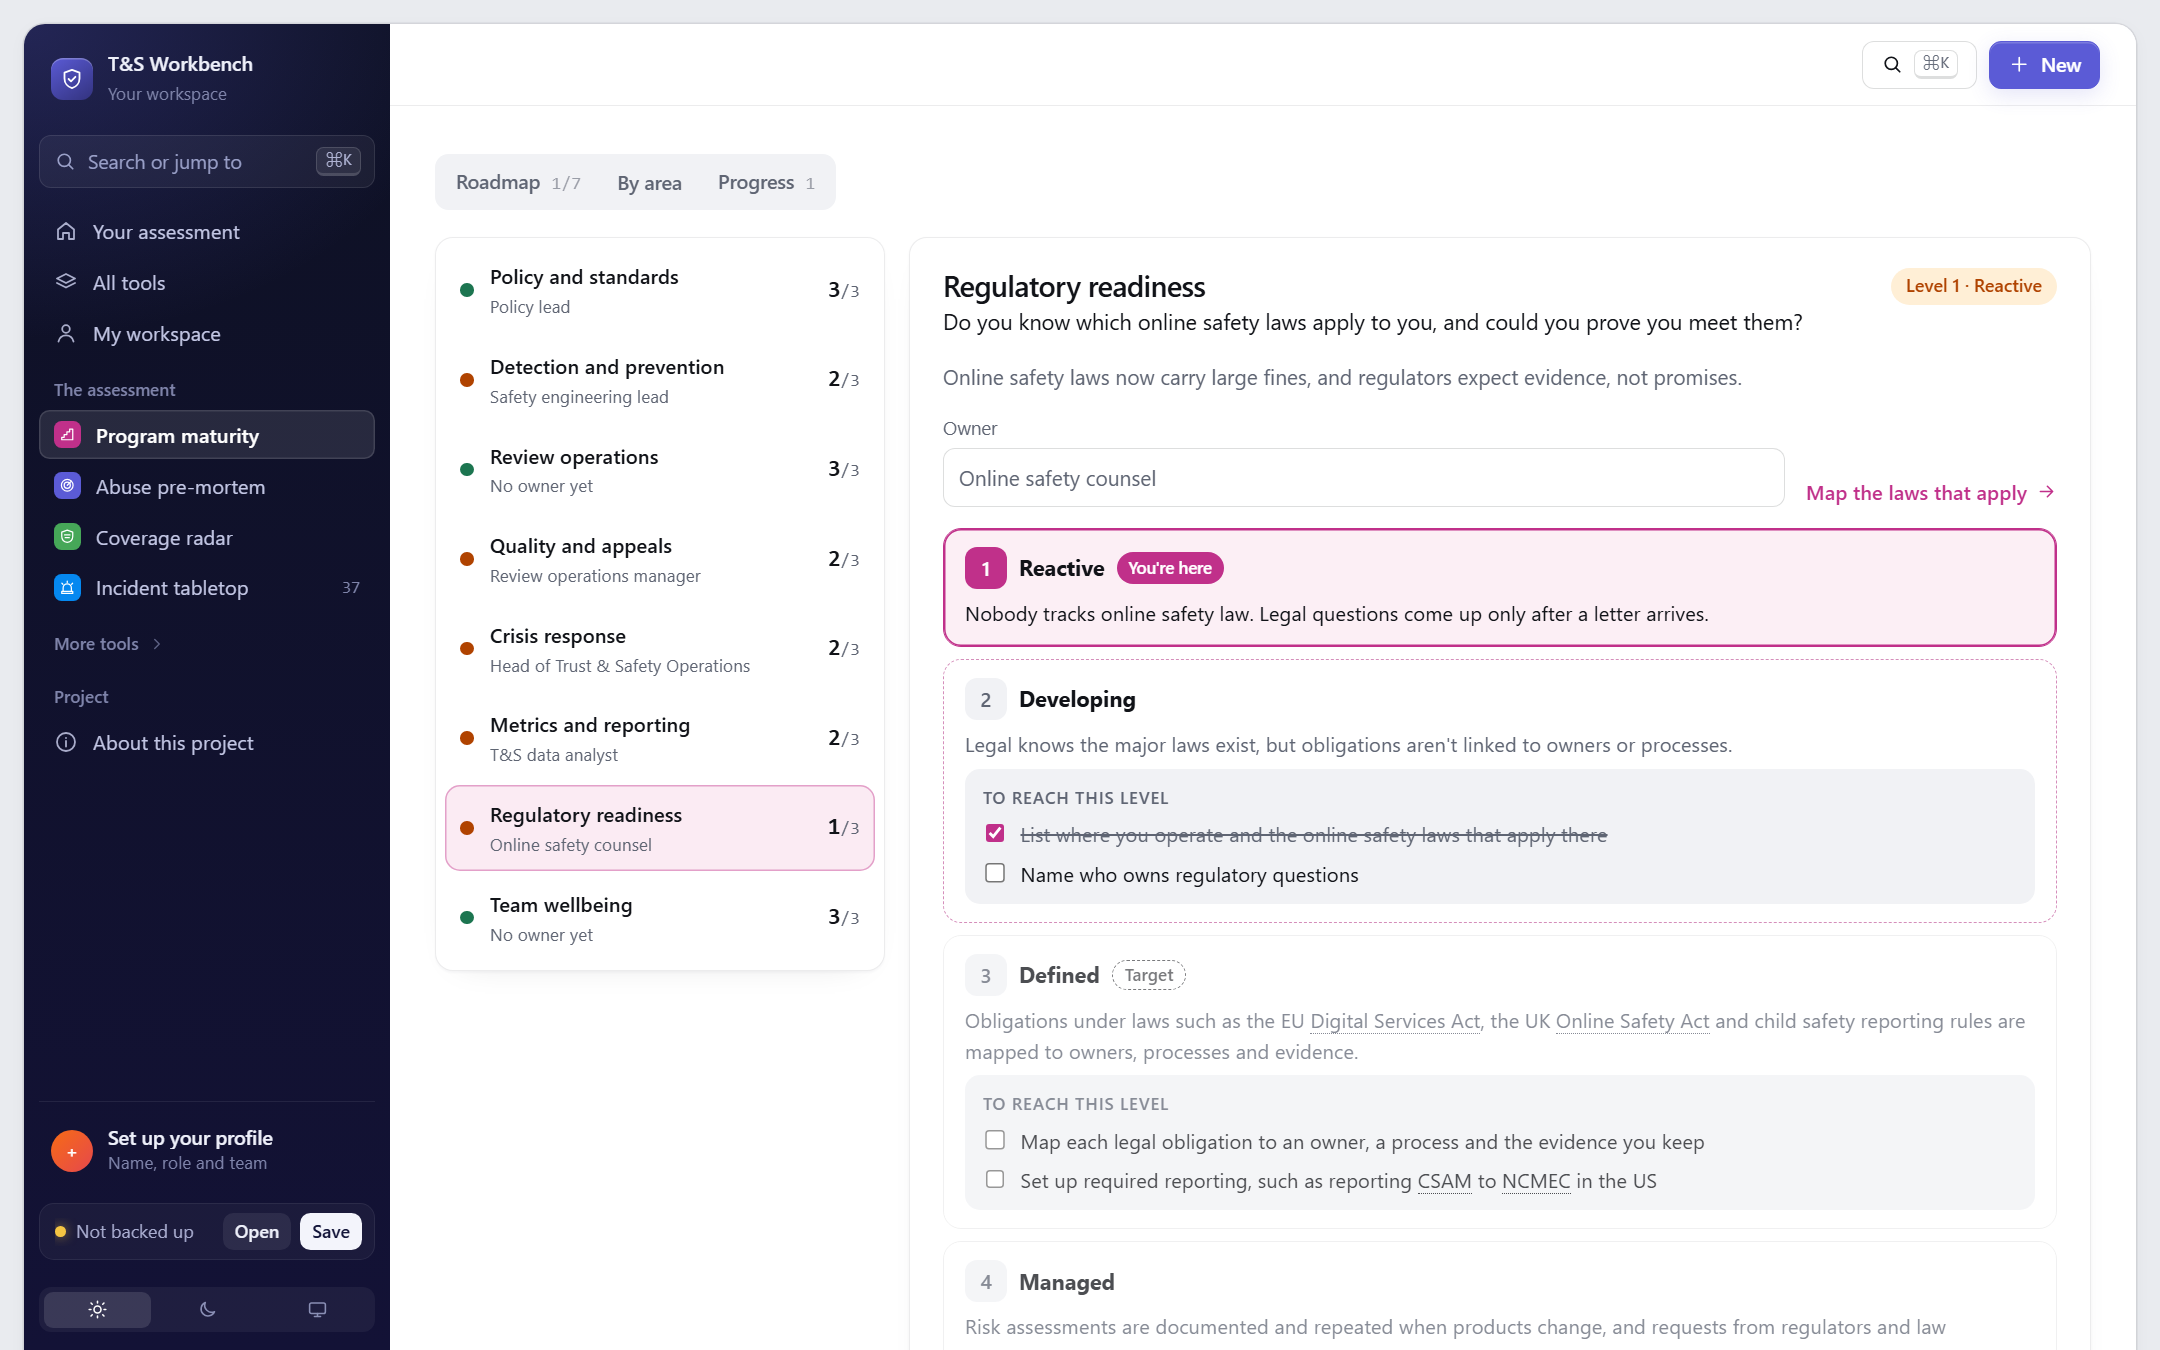
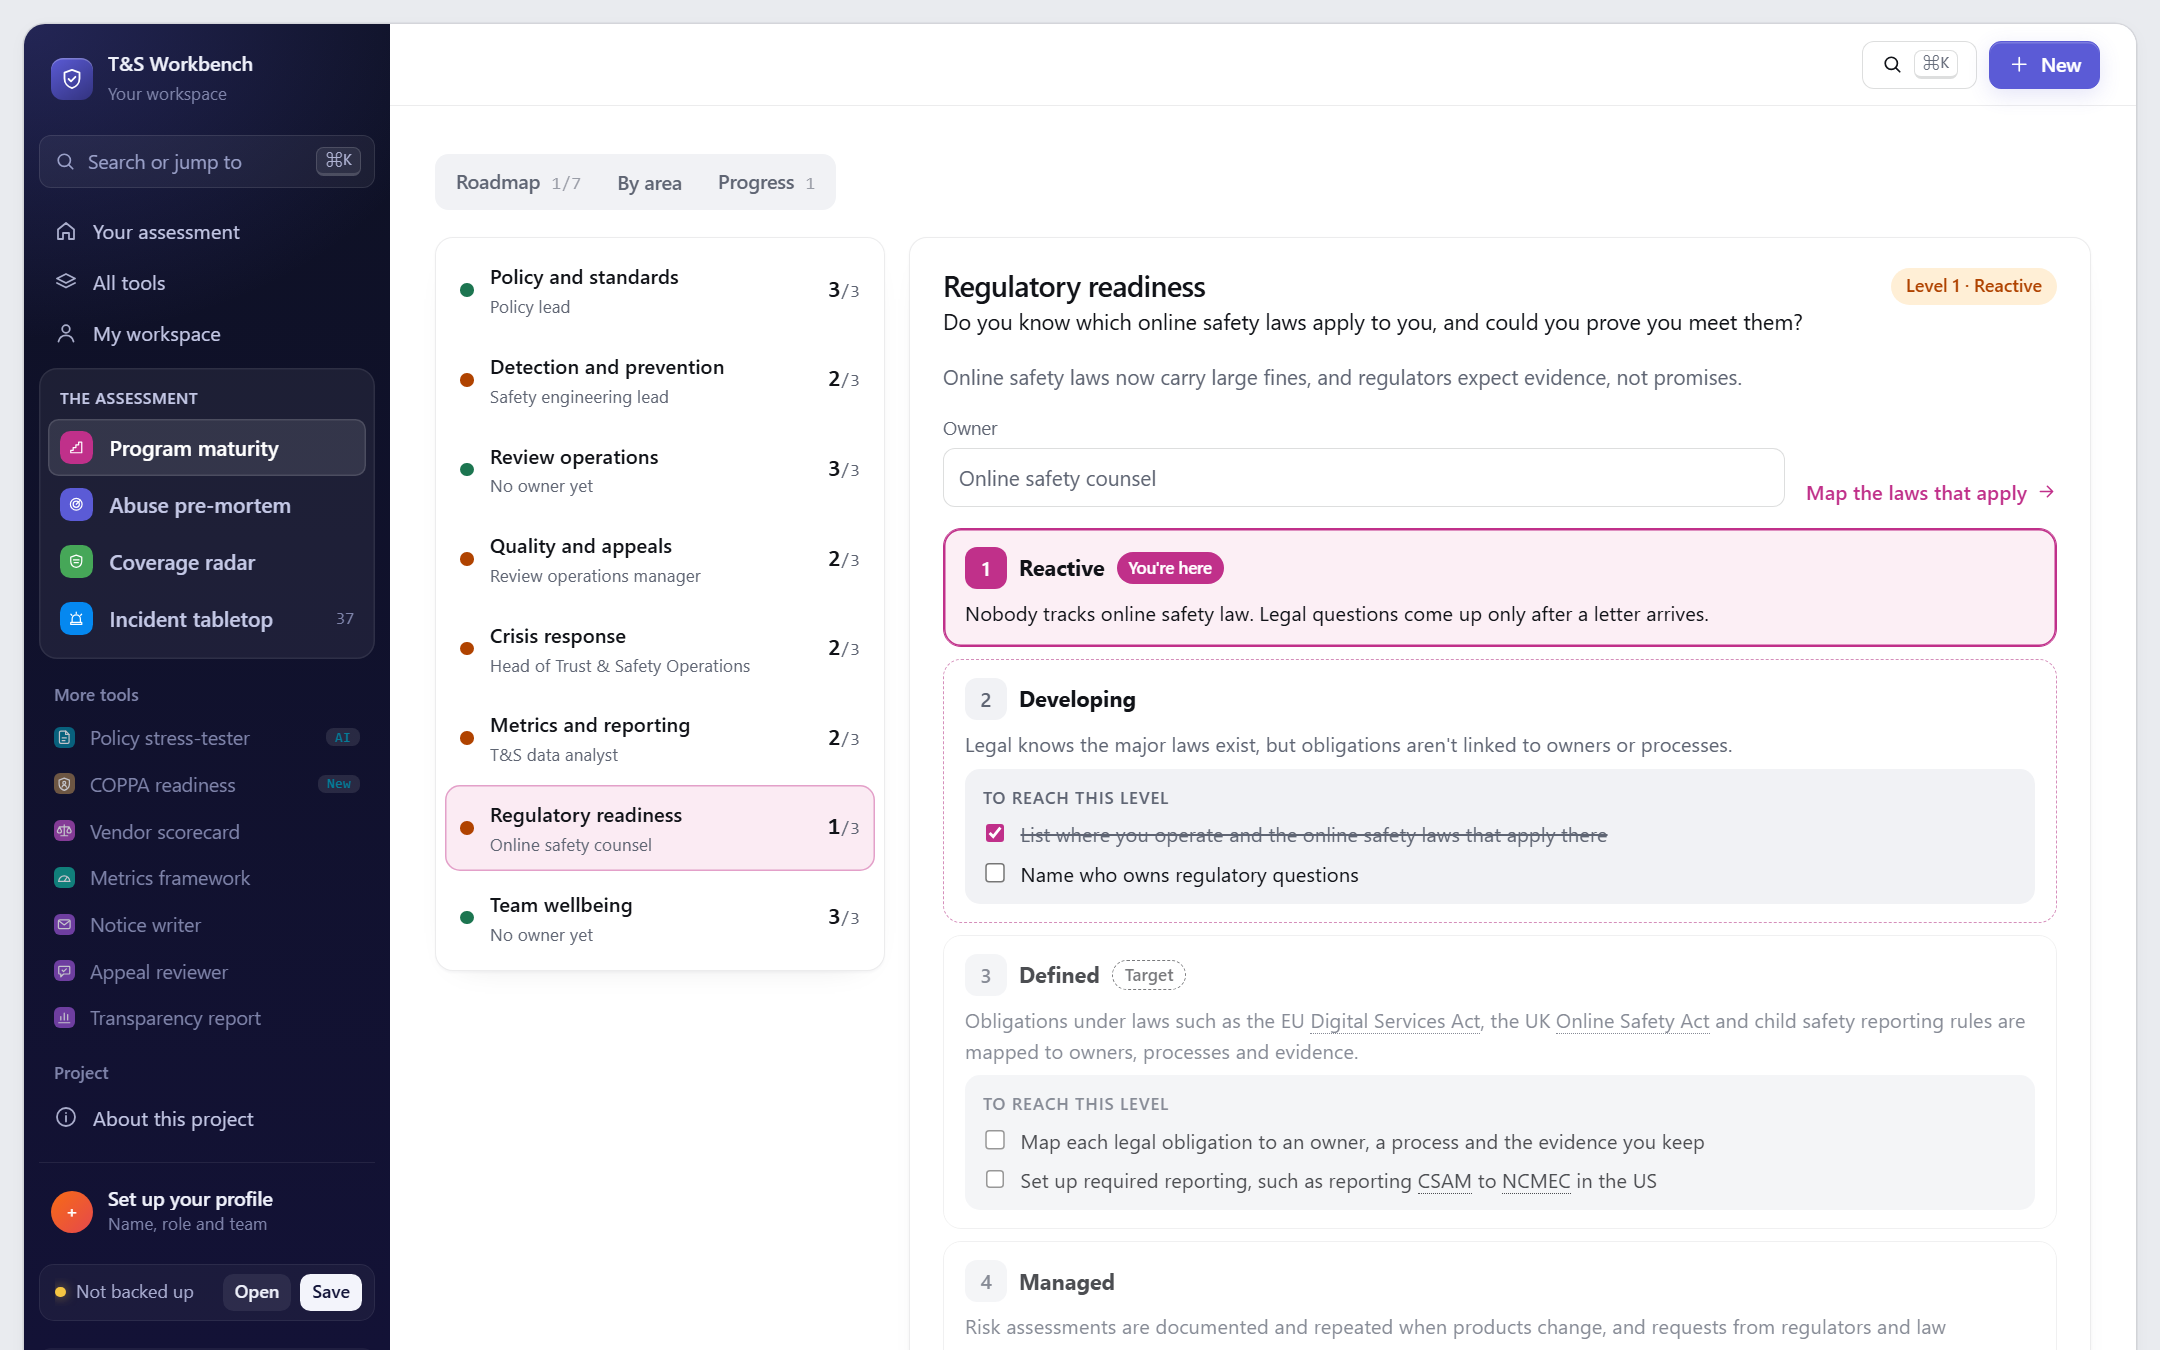
Screenshots and copy for the guided tools, the adaptive assessment and the plan

Changed region(s): [[0.0, 0.28, 0.1861, 0.7778], [0.0, 0.8089, 0.1861, 0.9956]]

diff --git a/README.md b/README.md
@@ -15,7 +15,7 @@ Leaders are asked "how mature is our safety program?" by boards, regulators, acq
 ## How it works
 
 1. **Set your stage.** Early, growing, or at scale and regulated. Targets rise with size, but crisis response, compliance and wellbeing never drop below level 3.
-2. **Rate each area.** One area per screen, five plain-language levels, your target marked. Pick the highest level where every statement is true today. Or rate them all on one page.
+2. **Rate each area.** One area per screen, five plain-language levels, your target marked, and a line on what the area means for your kind of platform. Pick the highest level where every statement is true today. Or rate them all on one page.
 3. **Work the plan.** A roadmap in now, next and later, with an owner for each area. Tick off both steps for a level and the area moves up. Each area has a ladder of evidence, and snapshots track progress over time.
 
 Send the roadmap to Jira, Asana or Linear as a CSV, or open each step as a pre-filled Jira, Linear or GitHub issue.
